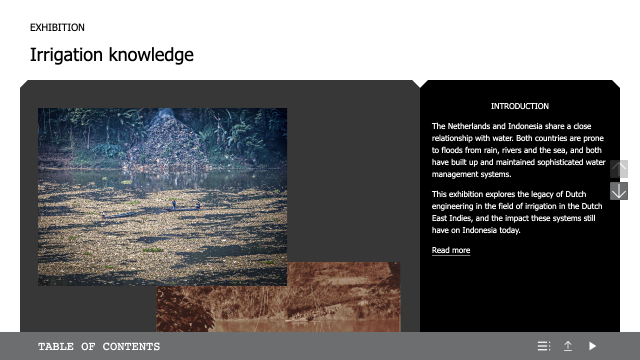
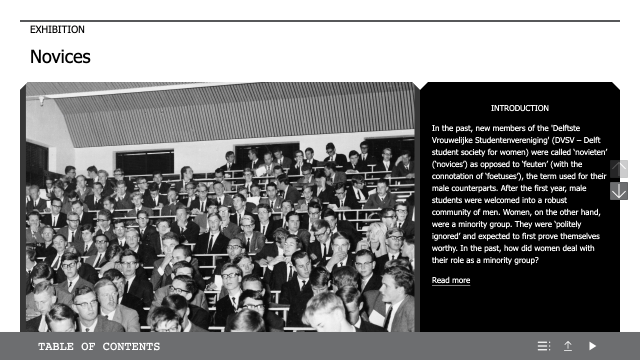
Leeds preview + refined Delft previews

diff --git a/presets/exhibition-preset/src/exhibition-templates.ts b/presets/exhibition-preset/src/exhibition-templates.ts
@@ -10,25 +10,27 @@ const boolean = (id: string, label: string, defaultValue: boolean) => ({
 export const exhibitionTemplates: PresetTemplateDefinition[] = [
   {
     id: "exhibition-fullpage",
-    label: "Full page exhibition",
+    label: "Delft exhibition",
     summary: "A guided exhibition layout with full-page scenes and focused narrative steps.",
     type: "fullpage",
-    previewUrl: "https://preview.exhibitionviewer.org/preview/exhibition",
+    previewUrl: "https://preview.exhibitionviewer.org/preview/delft/full-page",
     thumbnailUrl: "https://deploy-preview-391--manifest-editor-docs.netlify.app/exhibition-fullpage.png",
     configuration: [
       boolean("delft.exhibition.cutCorners", "Cut corners", true),
-      boolean("delft.exhibition.fullTitleBar", "Show full title bar", false),
-      boolean("delft.exhibition.fullWidthGrid", "Full-width grid", false),
+      // boolean("delft.exhibition.fullTitleBar", "Show full title bar", false),
+      // boolean("delft.exhibition.fullWidthGrid", "Full-width grid", false),
       boolean("delft.exhibition.hideTableOfContents", "Hide table of contents", false),
-      boolean("delft.exhibition.showNavigationControls", "Show navigation controls", true),
-      boolean("delft.exhibition.disablePresentation", "Disable presentation mode", false),
+      boolean("delft.exhibition.showNavigationControls", "Show navigation controls", false),
       boolean("delft.exhibition.hideTitle", "Hide title", false),
-      boolean("delft.exhibition.hideTitleCard", "Hide title card", false),
-      boolean("delft.exhibition.alternativeImageMode", "Alternative image mode", true),
-      boolean("delft.exhibition.transitionScale", "Scale transitions", false),
-      boolean("delft.exhibition.imageInfoIcon", "Show image information icon", false),
-      boolean("delft.exhibition.coverImages", "Cover images", false),
+      // boolean("delft.exhibition.hideTitleCard", "Hide title card", false),
+      // boolean("delft.exhibition.alternativeImageMode", "Alternative image mode", true),
+      // boolean("delft.exhibition.transitionScale", "Scale transitions", false),
       // boolean("delft.exhibition.ignoreCanvasBackgrounds", "Ignore canvas backgrounds", false),
+
+      // @todo why these don't work..
+      // boolean("delft.exhibition.disablePresentation", "Disable presentation mode", false),
+      // boolean("delft.exhibition.imageInfoIcon", "Show image information icon", false),
+      // boolean("delft.exhibition.coverImages", "Cover images", false),
     ],
   },
   {
@@ -36,7 +38,7 @@ export const exhibitionTemplates: PresetTemplateDefinition[] = [
     label: "Slideshow",
     summary: "A slide-based exhibition for linear presentations and teaching material.",
     type: "slideshow",
-    previewUrl: "https://preview.exhibitionviewer.org/preview/slideshow",
+    previewUrl: "https://preview.exhibitionviewer.org/preview/delft/slideshow",
     thumbnailUrl: "https://deploy-preview-391--manifest-editor-docs.netlify.app/exhibition-slideshow.png",
     configuration: [
       boolean("delft.presentation.cutCorners", "Cut corners", false),
@@ -62,7 +64,7 @@ export const exhibitionTemplates: PresetTemplateDefinition[] = [
     label: "Scrolling story",
     summary: "A vertical reading experience for essays, object stories, and long-form interpretation.",
     type: "scroll",
-    previewUrl: "https://preview.exhibitionviewer.org/preview/scroll",
+    previewUrl: "https://preview.exhibitionviewer.org/preview/delft/scroll",
     thumbnailUrl: "https://deploy-preview-391--manifest-editor-docs.netlify.app/exhibition-scroll.png",
     configuration: [
       boolean("scroll.options.showTitleBlock", "Show title block", true),
@@ -75,6 +77,15 @@ export const exhibitionTemplates: PresetTemplateDefinition[] = [
       // boolean("scroll.options.ignoreCanvasBackgrounds", "Ignore canvas backgrounds", false),
     ],
   },
+  {
+    id: "leeds-exhibition",
+    label: "Leeds exhibition",
+    summary: "A full-page exhibition template for the Leeds University Library.",
+    type: "fullpage",
+    previewUrl: "https://preview.exhibitionviewer.org/preview/leeds/full-page",
+    thumbnailUrl: "https://deploy-preview-391--manifest-editor-docs.netlify.app/leeds-exhibition.png",
+    configuration: [],
+  }
 ];
 
 export function getTemplateConfigurationValue(values: Record<string, any>, path: string): any {

diff --git a/presets/exhibition-preset/src/left-panels/ExhibitionTheme.tsx b/presets/exhibition-preset/src/left-panels/ExhibitionTheme.tsx
@@ -9,8 +9,7 @@ import { DownIcon } from "@manifest-editor/ui/icons/DownIcon";
 import { type ChangeEvent, type ReactNode, useMemo, useState } from "react";
 import { Button } from "react-aria-components";
 import { useManifest, useVault } from "react-iiif-vault";
-import { useExhibitionPreviewPreset } from "../helpers/exhibition-preview-state";
-import type { PresetUrlSearchParamsPreset } from "../helpers/exhibition-preview-url-helper";
+import { useConfiguredExhibitionPreviewPreset } from "../helpers/exhibition-preview-state";
 import type {
   ExhibitionThemeConfig,
   ExhibitionThemePreset,
@@ -171,23 +170,6 @@ type ServiceDetails = {
 
 type ThemePanelMode = "simple" | "advanced";
 type ThemeTarget = "presentation" | "slideshow" | "scroll";
-
-const themeTargetOptions: Array<{ label: string; value: ThemeTarget }> = [
-  { label: "Scroll", value: "scroll" },
-  { label: "Slideshow", value: "slideshow" },
-  { label: "Full page", value: "presentation" },
-];
-
-const previewPresetTargets: Partial<Record<PresetUrlSearchParamsPreset, ThemeTarget>> = {
-  scroll: "scroll",
-  slideshow: "slideshow",
-};
-
-const targetPreviewPresets: Record<ThemeTarget, PresetUrlSearchParamsPreset> = {
-  presentation: "exhibition",
-  scroll: "scroll",
-  slideshow: "slideshow",
-};
 
 function ThemeSection({
   title,
@@ -467,9 +449,14 @@ function setThemeValues(
 function ExhibitionThemeOptions() {
   const manifest = useManifest();
   const vault = useVault();
-  const [previewPreset, setPreviewPreset] = useExhibitionPreviewPreset();
+  const previewPreset = useConfiguredExhibitionPreviewPreset();
   const [themeMode, setThemeMode] = useState<ThemePanelMode>("simple");
-  const themeTarget = previewPresetTargets[previewPreset] || "presentation";
+  const themeTarget: ThemeTarget =
+    previewPreset === "scroll"
+      ? "scroll"
+      : previewPreset === "slideshow"
+        ? "slideshow"
+        : "presentation";
   const serviceList = ((manifest as any)?.service || []) as Array<any>;
   const servicesList = ((manifest as any)?.services || []) as Array<any>;
 
@@ -645,10 +632,6 @@ function ExhibitionThemeOptions() {
       ? resolvedTheme.scroll.options.showProgressBar
       : resolvedTheme.delft.exhibition.showProgressBar;
 
-  const selectThemeTarget = (target: ThemeTarget) => {
-    setPreviewPreset(targetPreviewPresets[target]);
-  };
-
   const enableTheme = (enabled: boolean) => {
     if (!enabled) {
       upsertTheme(null);
@@ -667,18 +650,6 @@ function ExhibitionThemeOptions() {
 
   return (
     <>
-        <ThemeSection
-          title="Preview"
-          description="Choose which exhibition format to preview while editing this theme."
-        >
-          <ThemeInlineSelect<ThemeTarget>
-            label="Preview format"
-            value={themeTarget}
-            onChange={selectThemeTarget}
-            options={themeTargetOptions}
-          />
-        </ThemeSection>
-
         <ThemeSection
           title="Saved Theme"
           description="Save custom exhibition styling and viewer defaults on the Manifest."

diff --git a/presets/exhibition-preset/src/center-panels/ExhibitionRemotePreviewPanel.tsx b/presets/exhibition-preset/src/center-panels/ExhibitionRemotePreviewPanel.tsx
@@ -3,30 +3,19 @@ import { useManifest } from "react-iiif-vault";
 import { ExhibitionPreviewPanel } from "../components/ExhibitionPreviewPanel";
 import {
   exhibitionRemotePreviewPanelId,
-  useExhibitionPreviewPreset,
+  useConfiguredExhibitionPreviewPreset,
 } from "../helpers/exhibition-preview-state";
-import type {
-  PresetUrlSearchParamsOptions,
-  PresetUrlSearchParamsPreset,
-} from "../helpers/exhibition-preview-url-helper";
+import type { PresetUrlSearchParamsOptions } from "../helpers/exhibition-preview-url-helper";
 import { PreviewIcon } from "../icons/PreviewIcon";
 import {
   getThemeConfigFromServices,
   resolveThemeConfig,
 } from "../theme/theme-service";
 
-export type ExhibitionRemotePreviewPanelState = {
-  preset?: PresetUrlSearchParamsPreset;
-};
-
-export const defaultExhibitionRemotePreviewPreset: PresetUrlSearchParamsPreset =
-  "exhibition";
-
 export const exhibitionRemotePreviewPanel: LayoutPanel = {
   id: exhibitionRemotePreviewPanelId,
   label: "Exhibition preview",
   icon: <PreviewIcon />,
-  defaultState: {} satisfies ExhibitionRemotePreviewPanelState,
   render: () => <ExhibitionRemotePreviewPanel />,
   options: {
     minWidth: 350,
@@ -34,7 +23,7 @@ export const exhibitionRemotePreviewPanel: LayoutPanel = {
 };
 
 function ExhibitionRemotePreviewPanel() {
-  const [previewPreset] = useExhibitionPreviewPreset();
+  const previewPreset = useConfiguredExhibitionPreviewPreset();
   const manifest = useManifest();
   const serviceTheme =
     getThemeConfigFromServices((manifest as any)?.service) ||
@@ -50,14 +39,6 @@ function ExhibitionRemotePreviewPanel() {
   } else if (previewPreset === "slideshow") {
     presetOptions = {
       ignoreCanvasBackgrounds: resolvedTheme.delft.slideshow.ignoreCanvasBackgrounds,
-    };
-  } else if (previewPreset === "presentation") {
-    presetOptions = {
-      cutCorners: resolvedTheme.delft.presentation.cutCorners,
-      floatingPosition: resolvedTheme.delft.presentation.floatingPosition,
-      ignoreCanvasBackgrounds: resolvedTheme.delft.presentation.ignoreCanvasBackgrounds,
-      isFloating: resolvedTheme.delft.presentation.isFloating,
-      labelOnlyFloating: resolvedTheme.delft.presentation.labelOnlyFloating,
     };
   } else {
     presetOptions = {

diff --git a/presets/exhibition-preset/src/helpers/exhibition-preview-url-helper.ts b/presets/exhibition-preset/src/helpers/exhibition-preview-url-helper.ts
@@ -133,36 +133,24 @@ export function createPresetUrlSearchParams(
 export function createScrollingPreviewUrl<T extends PresetUrlSearchParamsPreset>(
   preset: T,
   options?: Partial<PresetUrlSearchParamsOptions<T>>,
+  previewUrl?: string,
 ): URL;
 export function createScrollingPreviewUrl(
   preset: PresetUrlSearchParamsPreset,
   options?: Partial<PresetUrlSearchParamsOptions>,
+  previewUrl?: string,
 ): URL {
   const searchParams = createPresetUrlSearchParams(preset, (options || {}) as any);
+  const configuredBase =
+    window.localStorage.getItem("exhibition-viewer-preview-url") || process.env.NEXT_PUBLIC_EXHIBITION_VIEWER_URL;
+  const url = new URL(configuredBase || previewUrl || `https://preview.exhibitionviewer.org/preview/${preset}`);
 
-  // const url = new URL(configuredBase || defaultBase, window.location.origin);
+  if (!configuredBase && (window.location.hostname === "localhost" || window.location.hostname === "127.0.0.1")) {
+    url.protocol = "http:";
+    url.host = "localhost:5174";
+  }
 
-  // const pathParts = url.pathname.split("/").filter(Boolean);
-  // const previewIndex = pathParts.indexOf("preview");
-
-  // if (previewIndex === -1) {
-  //   url.pathname = `${url.pathname.replace(/\/$/, "")}/preview/${preset}`;
-  // } else if (!pathParts[previewIndex + 1]) {
-  //   url.pathname = `/${[...pathParts, preset].join("/")}`;
-  // }
-
-  // searchParams.forEach((value, key) => {
-  //   url.searchParams.set(key, value);
-  // });
-  // const base = `https://preview.exhibitionviewer.org/preview/${preset}?${searchParams?.toString()}`;
-  const base =
-    window.localStorage.getItem("exhibition-viewer-preview-url") ||
-    process.env.NEXT_PUBLIC_EXHIBITION_VIEWER_URL ||
-    (window.location.hostname === "localhost" || window.location.hostname === "127.0.0.1"
-      ? `http://localhost:5173/preview/${preset}?${searchParams?.toString()}`
-      : `https://preview.exhibitionviewer.org/preview/${preset}?${searchParams?.toString()}`);
-
-  const url = new URL(base);
+  searchParams.forEach((value, key) => url.searchParams.set(key, value));
 
   url.searchParams.set("manifest-editor-preview", "true");
   url.searchParams.set("manifest-editor-preview-origin", window.location.origin);

diff --git a/presets/exhibition-preset/src/helpers/exhibition-preview-state.ts b/presets/exhibition-preset/src/helpers/exhibition-preview-state.ts
@@ -1,56 +1,8 @@
-import { useCallback } from "react";
-import {
-  useLayoutActions,
-  useLayoutState,
-  useLocalStorage,
-} from "@manifest-editor/shell";
 import { useExhibitionTemplate } from "./exhibition-template";
 import type { PresetUrlSearchParamsPreset } from "./exhibition-preview-url-helper";
 
 export const exhibitionRemotePreviewPanelId =
   "@exhibitions/remote-preview-panel";
-
-export const defaultExhibitionPreviewPreset: PresetUrlSearchParamsPreset =
-  "exhibition";
-
-export const exhibitionPreviewPresetStorageKey = "exhibition-preview-preset";
-
-export const exhibitionPreviewPresetOptions: Array<{
-  value: PresetUrlSearchParamsPreset;
-  label: string;
-}> = [
-  { value: "exhibition", label: "Full page" },
-  { value: "scroll", label: "Scroll" },
-  { value: "slideshow", label: "Slideshow" },
-];
-
-export function useExhibitionPreviewPreset() {
-  const [storedPreset, setStoredPreset] =
-    useLocalStorage<PresetUrlSearchParamsPreset>(
-      exhibitionPreviewPresetStorageKey,
-      defaultExhibitionPreviewPreset,
-    );
-  const { centerPanel } = useLayoutState();
-  const { centerPanel: centerPanelActions } = useLayoutActions();
-
-  const previewPreset = storedPreset || defaultExhibitionPreviewPreset;
-
-  const setPreviewPreset = useCallback(
-    (preset: PresetUrlSearchParamsPreset) => {
-      setStoredPreset(preset);
-
-      if (centerPanel.current === exhibitionRemotePreviewPanelId) {
-        centerPanelActions.open({
-          id: exhibitionRemotePreviewPanelId,
-          state: { preset },
-        });
-      }
-    },
-    [centerPanel.current, centerPanelActions, setStoredPreset],
-  );
-
-  return [previewPreset, setPreviewPreset] as const;
-}
 
 export function useConfiguredExhibitionPreviewPreset() {
   const selectedTemplate = useExhibitionTemplate();
@@ -62,6 +14,6 @@ export function useConfiguredExhibitionPreviewPreset() {
       return "scroll" satisfies PresetUrlSearchParamsPreset;
     case "fullpage":
     default:
-      return defaultExhibitionPreviewPreset;
+      return "exhibition" satisfies PresetUrlSearchParamsPreset;
   }
 }

diff --git a/presets/exhibition-preset/src/components/ExhibitionPreviewPanel.tsx b/presets/exhibition-preset/src/components/ExhibitionPreviewPanel.tsx
@@ -8,6 +8,7 @@ import {
   type PresetUrlSearchParamsOptions,
   type PresetUrlSearchParamsPreset,
 } from "../helpers/exhibition-preview-url-helper";
+import { useExhibitionTemplate } from "../helpers/exhibition-template";
 import { useSlideshowContentPositioning } from "../slideshow-content-positioning";
 
 export interface ExhibitionPreviewPanelProps {
@@ -31,6 +32,7 @@ export function ExhibitionPreviewPanel({
   const vault = useVault();
   const rootResource = useAppResource();
   const manifest = useManifest();
+  const template = useExhibitionTemplate();
   const canvas = useInStack("Canvas");
   const iframeRef = useRef<HTMLIFrameElement | null>(null);
   const viewportRef = useRef<HTMLDivElement | null>(null);
@@ -44,7 +46,10 @@ export function ExhibitionPreviewPanel({
   const [useMobileWidthPreview, setUseMobileWidthPreview] = useState(false);
   const selectedTourStepId = useSlideshowContentPositioning((state) => state.selectedTourStepId);
   const currentCanvasId = focusSelectedCanvas ? canvas?.resource.source.id || manifest?.items?.[0]?.id || null : null;
-  const src = useMemo(() => createScrollingPreviewUrl(preset, presetOptions).toString(), [preset, presetOptions]);
+  const src = useMemo(
+    () => createScrollingPreviewUrl(preset, presetOptions, template?.previewUrl).toString(),
+    [preset, presetOptions, template?.previewUrl],
+  );
   const targetOrigin = useMemo(() => new URL(src).origin, [src]);
   const previewScale = useScaledPreview ? SCALED_PREVIEW_SIZE : 1;
   const iframeViewportWidth = useMobileWidthPreview

diff --git a/presets/exhibition-preset/src/helpers/exhibition-preview-url-helper.test.ts b/presets/exhibition-preset/src/helpers/exhibition-preview-url-helper.test.ts
@@ -1,0 +1,25 @@
+import { afterEach, describe, expect, test, vi } from "vitest";
+import { createScrollingPreviewUrl } from "./exhibition-preview-url-helper";
+
+describe("createScrollingPreviewUrl", () => {
+  afterEach(() => vi.unstubAllGlobals());
+
+  test("uses the template preview path and query parameters on the local viewer", () => {
+    vi.stubGlobal("window", {
+      localStorage: { getItem: () => null },
+      location: { hostname: "localhost", origin: "http://localhost:3000" },
+    });
+
+    const url = createScrollingPreviewUrl(
+      "exhibition",
+      { cutCorners: true },
+      "https://preview.exhibitionviewer.org/preview/leeds/full-page?theme=leeds",
+    );
+
+    expect(url.origin).toBe("http://localhost:5174");
+    expect(url.pathname).toBe("/preview/leeds/full-page");
+    expect(url.searchParams.get("theme")).toBe("leeds");
+    expect(url.searchParams.get("cut-corners")).toBe("true");
+    expect(url.searchParams.get("manifest-editor-preview-origin")).toBe("http://localhost:3000");
+  });
+});
